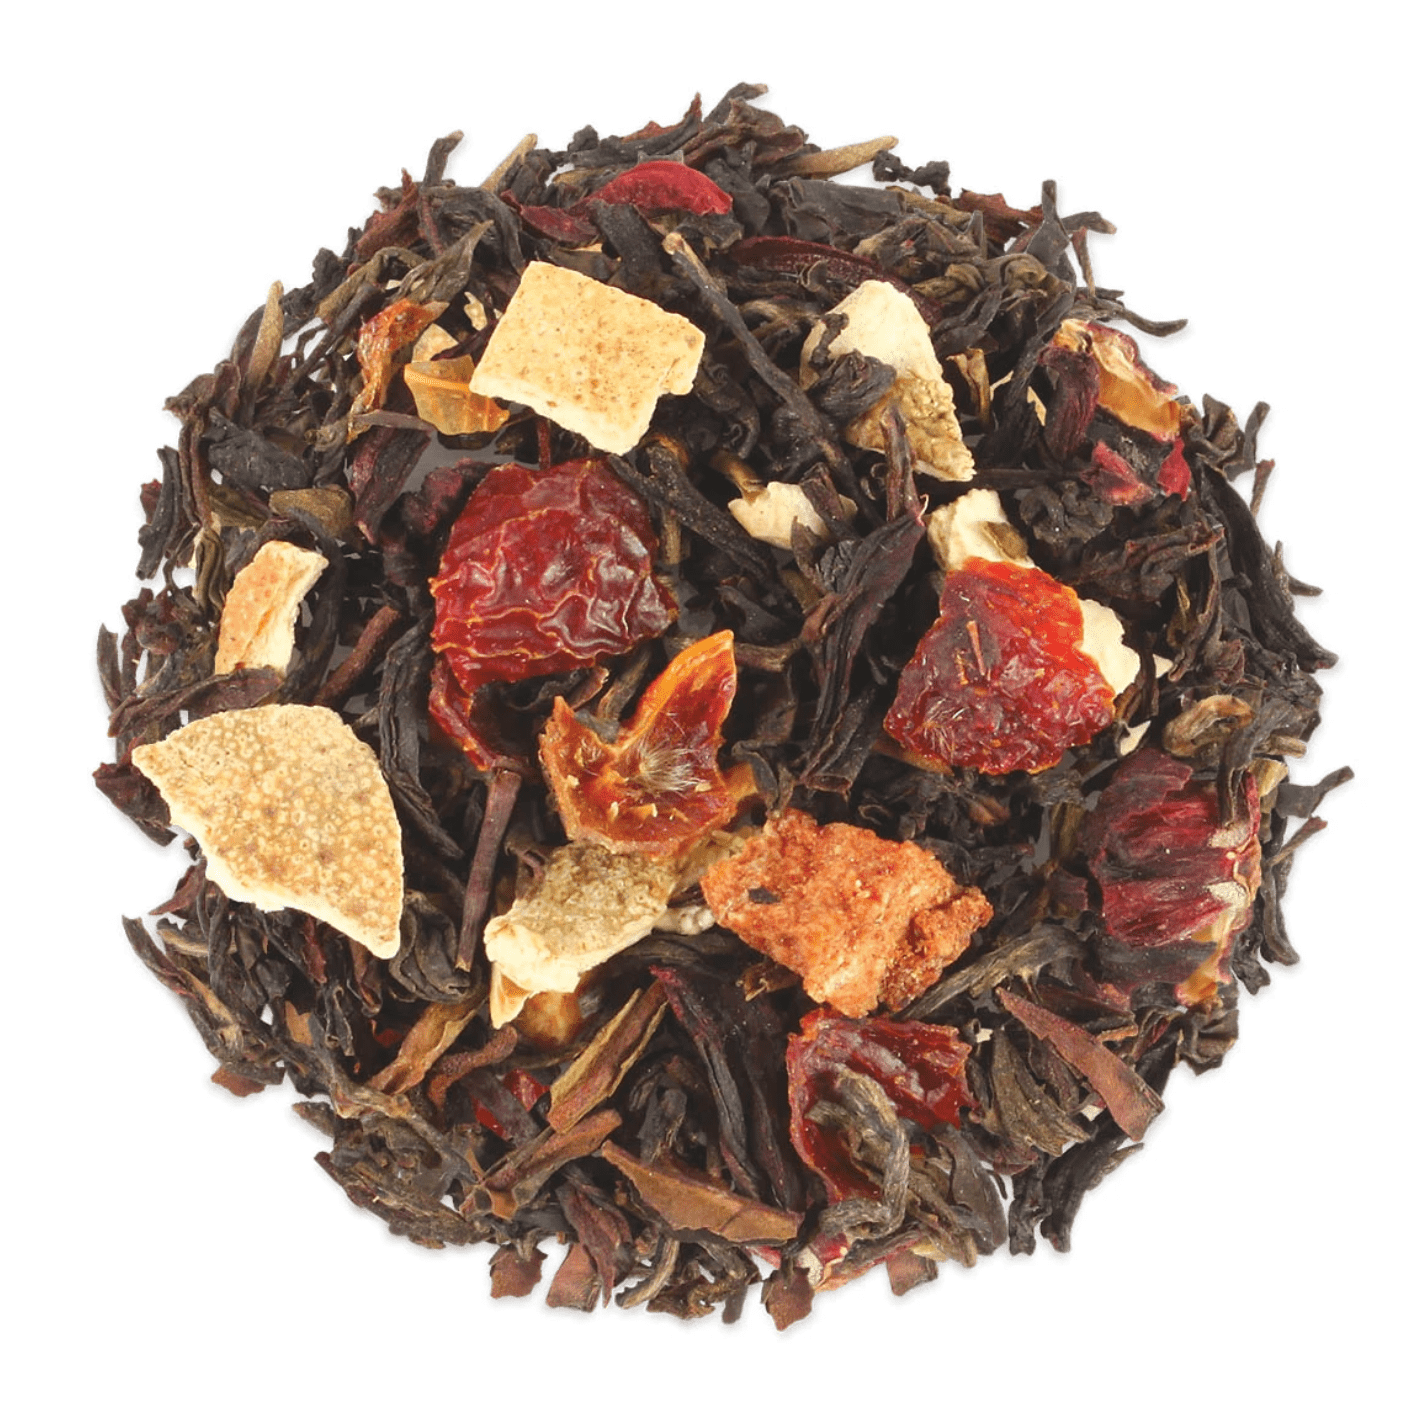
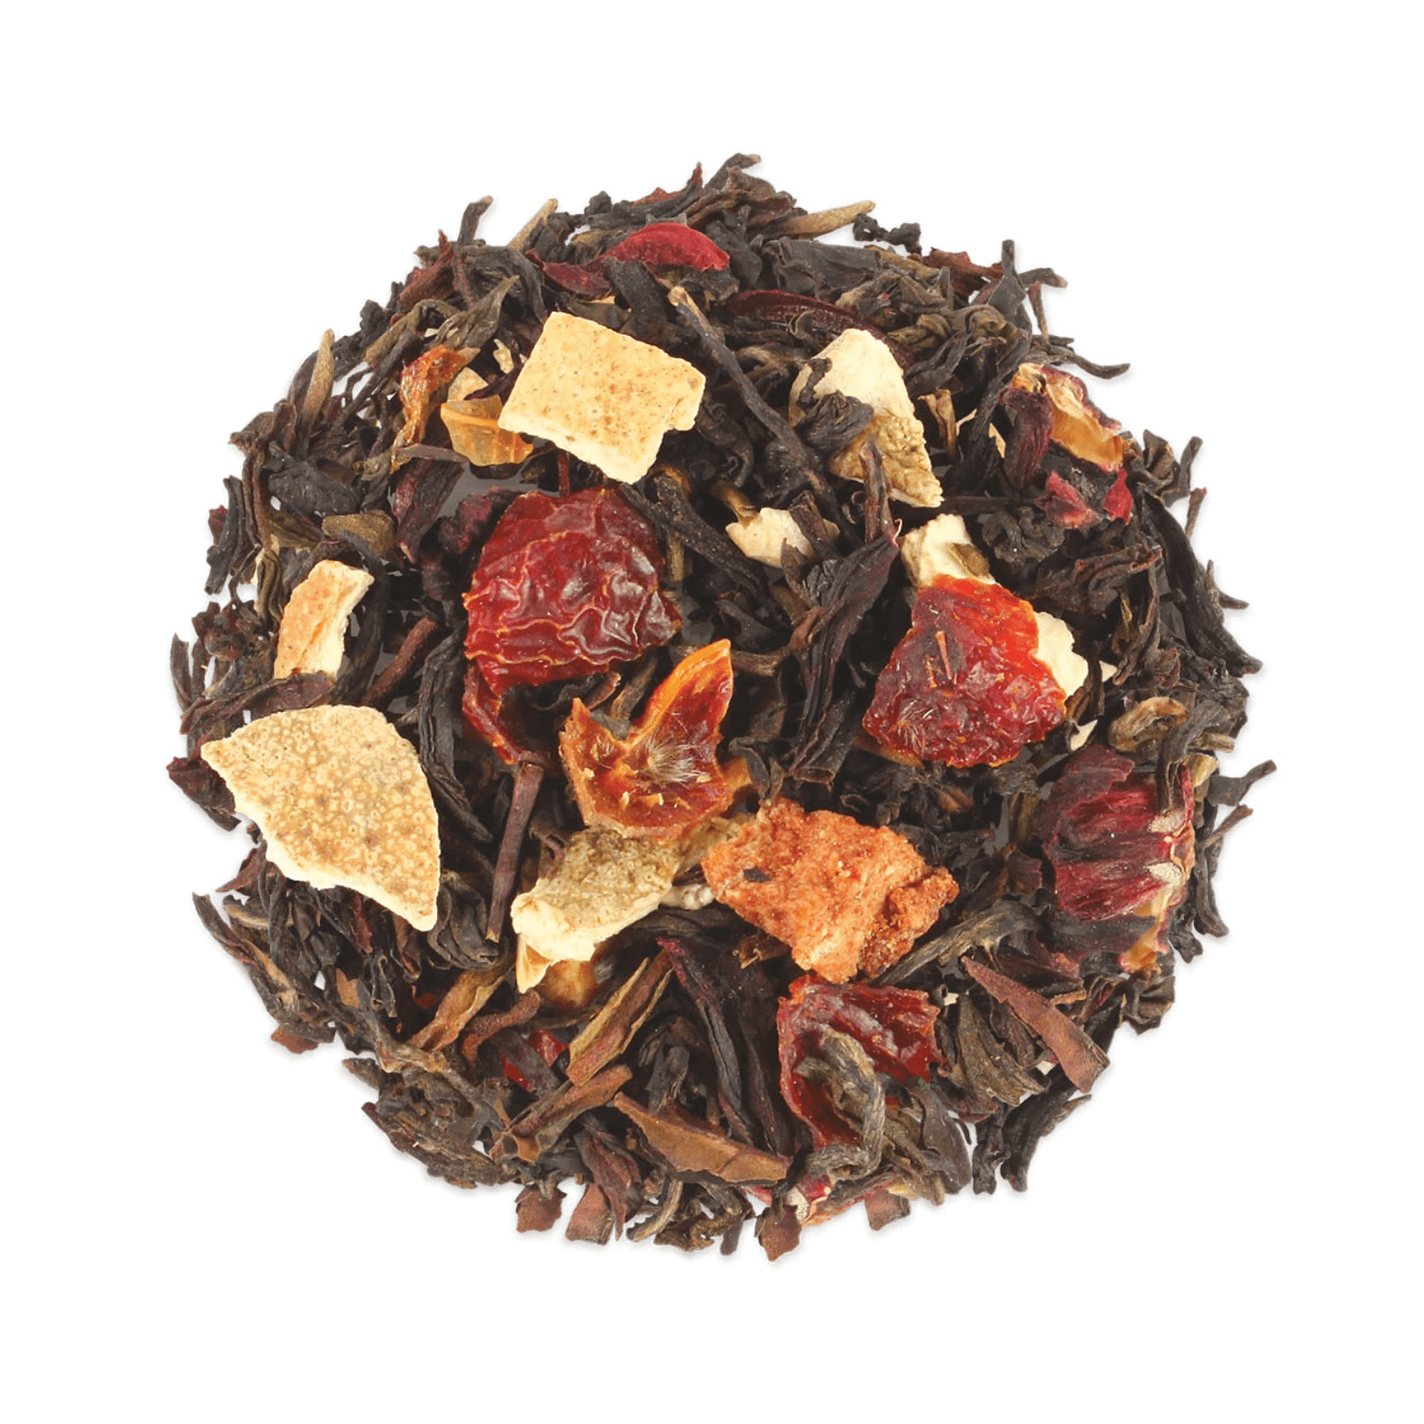
image update

diff --git a/src/components/FeaturedProductsGrid.js b/src/components/FeaturedProductsGrid.js
@@ -80,6 +80,6 @@ const ItemImage = styled.img`
   width: 100%;
   height: auto;
   max-width: 100%;
-  object-fit: contain;
+  object-fit: cover;
   border-radius: 0.25rem;
 `;
